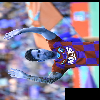
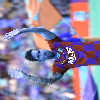
fixed bilinear bug

diff --git a/cross_corr.py b/cross_corr.py
@@ -17,7 +17,7 @@ class meshgrid_based_rotation:
         self.W = W
         self.centerD = self.D//2
         self.centerW = self.W//2
-        self.EPS = 1e-5
+        self.EPS = 1e-8
         self.device = torch.device("cuda")
         self.angleIncrement = angleIncrement
         # with torch.no_grad():
@@ -84,9 +84,23 @@ class meshgrid_based_rotation:
         y1, y2, x1, x2 = dfloor.unsqueeze(0).unsqueeze(0).to(torch.float64), dceil.unsqueeze(0).unsqueeze(0).to(torch.float64), wfloor.unsqueeze(0).unsqueeze(0).to(torch.float64), wceil.unsqueeze(0).unsqueeze(0).to(torch.float64)
         y = self.dRot.unsqueeze(0).unsqueeze(0).to(torch.float64) 
         x = self.wRot.unsqueeze(0).unsqueeze(0).to(torch.float64)
-        numerator = fq11*(x2-x)*(y2-y) + fq21*(x-x1)*(y2-y) + fq12*(x2-x)*(y-y1) + fq22*(x-x1)*(y-y1)
-        st()
-        denominator = (x2-x1)*(y2-y1) + self.EPS
+        one = (x2-x )*(y2-y)
+        two = (x-x1)*(y2-y)
+        three = (x2-x)*(y-y1)
+        four = (x-x1)*(y-y1)
+        one[torch.where(one == 0.0)] = 0.25
+        two[torch.where(two == 0.0)] = 0.25
+        three[torch.where(three == 0.0)] = 0.25
+        four[torch.where(four == 0.0)] = 0.25
+
+        # st()
+        # self.EPS = 0.0
+        numerator = fq11*one + fq21*two + fq12*three + fq22*four
+        # numerator = torch.clamp(numerator,min=self.EPS)
+        denominator = (x2-x1)*(y2-y1)
+        denominator[torch.where(denominator == 0.0)] = 1.0
+
+        # denominator =torch.clamp(denominator,min=self.EPS)
         out = numerator/denominator
         return out
 
@@ -97,8 +111,8 @@ class meshgrid_based_rotation:
         return out
 
     def getFloorAndCeil(self):
-        self.dRot = self.dRot + self.EPS
-        self.wRot = self.wRot + self.EPS
+        self.dRot = self.dRot 
+        self.wRot = self.wRot 
 
         dfloor = torch.floor(self.dRot).long()
         dceil = torch.ceil(self.dRot).long()
